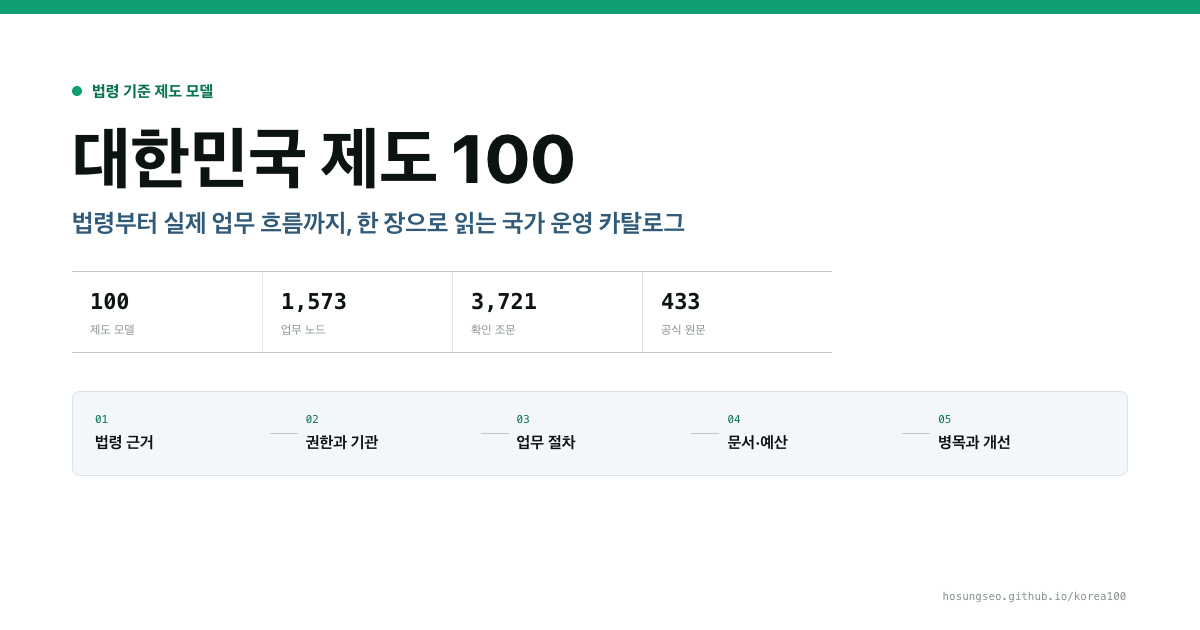
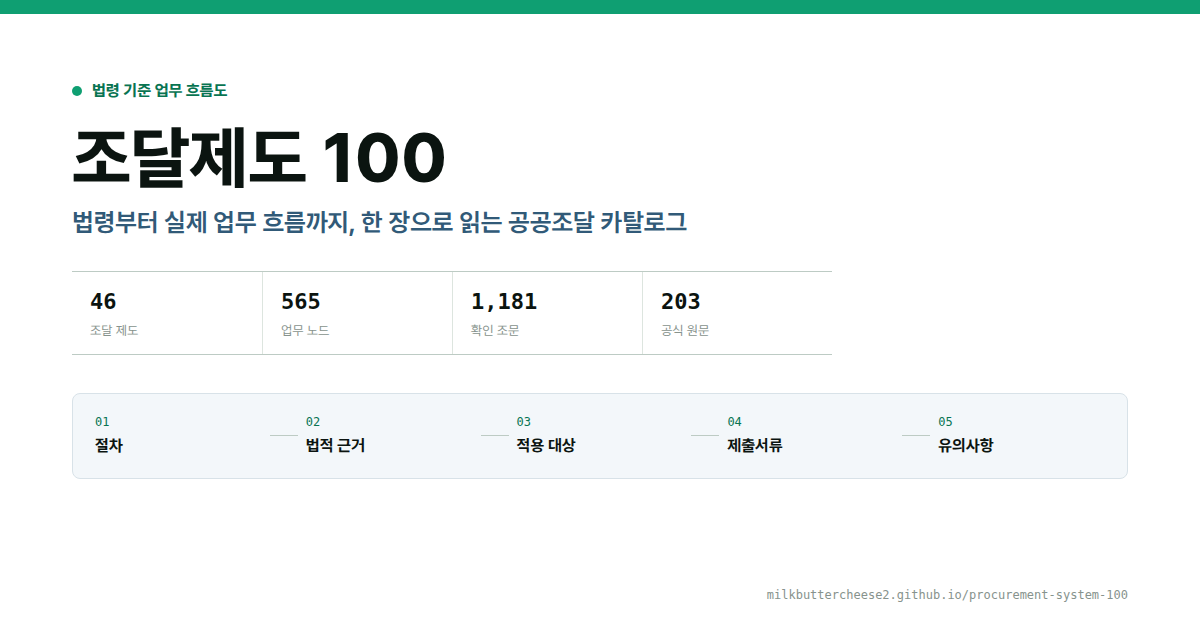
fix: regenerate stale OG share image (대한민국 제도 100 → 조달제도 100, current stats/canvas/URL)
모바일 공유 미리보기가 옛 이미지(대한민국 제도 100·hosungseo.github.io/korea100)로 뜨던 문제 수정. 현재 브랜딩·통계(46제도)·캔버스 5블록·새 URL 반영.

diff --git a/web/src/app/og-card/page.tsx b/web/src/app/og-card/page.tsx
@@ -53,15 +53,15 @@ export default function OgCardPage() {
       </section>
 
       <section className="og-card-flow" aria-label="구조도 구성">
-        <div><span>01</span><strong>법령 근거</strong></div>
+        <div><span>01</span><strong>절차</strong></div>
         <i aria-hidden="true" />
-        <div><span>02</span><strong>권한과 기관</strong></div>
+        <div><span>02</span><strong>법적 근거</strong></div>
         <i aria-hidden="true" />
-        <div><span>03</span><strong>업무 절차</strong></div>
+        <div><span>03</span><strong>적용 대상</strong></div>
         <i aria-hidden="true" />
-        <div><span>04</span><strong>문서·예산</strong></div>
+        <div><span>04</span><strong>제출서류</strong></div>
         <i aria-hidden="true" />
-        <div><span>05</span><strong>유의사항과 개선</strong></div>
+        <div><span>05</span><strong>유의사항</strong></div>
       </section>
 
       <footer>milkbuttercheese2.github.io/procurement-system-100</footer>